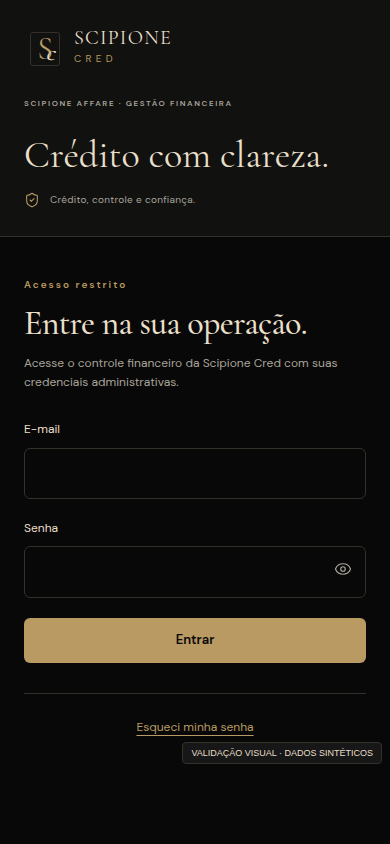
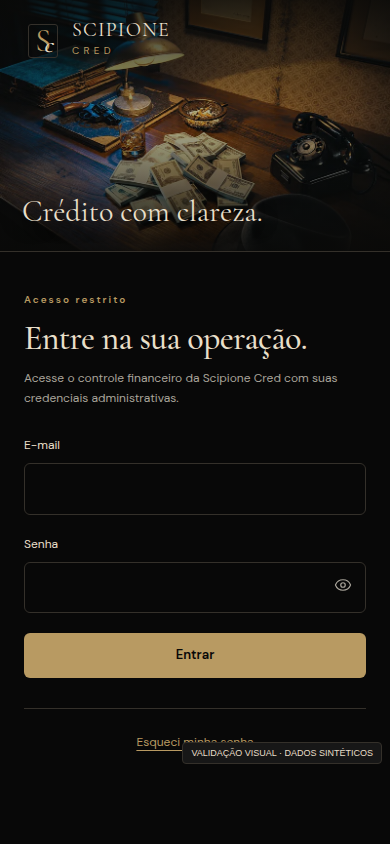
feat: aplicar fotografia restaurada no login
Imagem ampliada de 510x360 para 1492x1054 sem alterar o conteúdo, publicada em WebP; painel lateral no desktop e faixa superior no mobile, com gradiente para manter o contraste.

diff --git a/src/styles/base.css b/src/styles/base.css
@@ -457,3 +457,26 @@ dd { margin: 0; overflow-wrap: anywhere; }
 }
 .profile-meta { display: flex; flex-wrap: wrap; gap: 8px 22px; color: var(--muted); font-size: 11px; }
 .profile-meta span { overflow-wrap: anywhere; }
+
+/* Login: fotografia institucional — painel lateral no desktop, faixa superior no mobile. */
+.auth-story { position: relative; isolation: isolate; overflow: hidden; }
+.auth-story-media, .auth-story-scrim { position: absolute; inset: 0; z-index: 0; }
+.auth-story-media img { display: block; width: 100%; height: 100%; object-fit: cover; object-position: 44% 55%; }
+.auth-story-scrim { background: linear-gradient(180deg, rgba(9, 9, 8, .9) 0%, rgba(9, 9, 8, .46) 38%, rgba(9, 9, 8, .62) 70%, rgba(9, 9, 8, .95) 100%), linear-gradient(90deg, rgba(9, 9, 8, .78) 0%, rgba(9, 9, 8, .28) 62%, rgba(9, 9, 8, .08) 100%); }
+.auth-brand, .auth-story-body, .auth-story > footer { position: relative; z-index: 1; }
+.auth-story-body { text-shadow: 0 1px 22px rgba(0, 0, 0, .5); }
+.auth-story h2, .auth-story p { color: var(--marfim); }
+.auth-story p { color: #d9d2c3; }
+@media (max-width: 1023px) {
+  .auth-story .auth-eyebrow { display: none; }
+}
+@media (max-width: 767px) {
+  .auth-story { height: 252px; padding: 20px 22px 22px; border-bottom: 1px solid var(--borda); }
+  .auth-story-media img { object-position: 52% 60%; }
+  .auth-story-scrim { background: linear-gradient(180deg, rgba(9, 9, 8, .88) 0%, rgba(9, 9, 8, .3) 46%, rgba(9, 9, 8, .92) 100%); }
+  .auth-story .brand { margin: 0; }
+  .auth-story > footer { display: none; }
+  .auth-story-body { margin: 0; }
+  .auth-story-body .auth-eyebrow, .auth-story-copy, .auth-story-rule { display: none; }
+  .auth-story-body h2 { margin: 0; font-size: 30px; line-height: 1.12; max-width: 280px; }
+}

diff --git a/src/components/auth-layout.js b/src/components/auth-layout.js
@@ -8,6 +8,8 @@ export function authLayout({
   asideText = 'Clientes, dívidas e pagamentos em um só lugar. Precisão em cada registro, confiança em cada decisão.',
 } = {}) {
   return `<main class="auth-layout"><section class="auth-story" aria-label="Scipione Cred">
+    <picture class="auth-story-media" aria-hidden="true"><source media="(max-width: 767px)" srcset="/images/login-desk-800.webp"><img src="/images/login-desk-1492.webp" alt="" width="1492" height="1054" fetchpriority="high" decoding="async"></picture>
+    <span class="auth-story-scrim" aria-hidden="true"></span>
     <a class="brand auth-brand" href="#/login" aria-label="Scipione Cred">${marca()}</a>
     <div class="auth-story-body"><p class="auth-eyebrow">SCIPIONE AFFARE · GESTÃO FINANCEIRA</p><h2>${esc(asideTitle)}</h2><div class="auth-story-rule" aria-hidden="true"></div><p class="auth-story-copy">${esc(asideText)}</p></div>
     <footer>${icon('shield-check', 16)} <span>Crédito, controle e confiança.</span></footer></section>

diff --git a/docs/ativos-visuais.md b/docs/ativos-visuais.md
@@ -5,3 +5,11 @@ A interface usa Cormorant Garamond nos títulos institucionais e DM Sans nos con
 Fontes oficiais verificadas em 12 de novembro de 2026: https://fonts.google.com/specimen/Cormorant+Garamond e https://fonts.google.com/specimen/DM+Sans. Arquivos obtidos pela API Google Fonts e licenças pelo repositório google/fonts.
 
 Os ícones operacionais são Lucide, dependência já presente no projeto. A marca é tipográfica com monograma CSS e ícone PWA vetorial local. Não são utilizadas fotografias de clientes reais, imagens de banco de imagens ou ilustrações decorativas.
+
+## Fotografia do login
+
+- Arquivo recebido: `360_F_376877408_tahYXzHkO7ZgLERw43ErDjcIVQtyTWYC.jpg` (510 × 360 px), fornecido pelo cliente.
+- Tratamento: restauração e ampliação por IA preservando o conteúdo original, seguida de leve nitidez e conversão para WebP.
+- Derivados publicados: `public/images/login-desk-1492.webp` (desktop, painel lateral) e `public/images/login-desk-800.webp` (mobile, faixa superior).
+- Uso: decorativo, servido como `alt=""` e coberto por gradiente para manter o contraste do texto.
+- Licença: a origem e o direito de uso da imagem são de responsabilidade do cliente; o arquivo não é redistribuído fora deste projeto.
